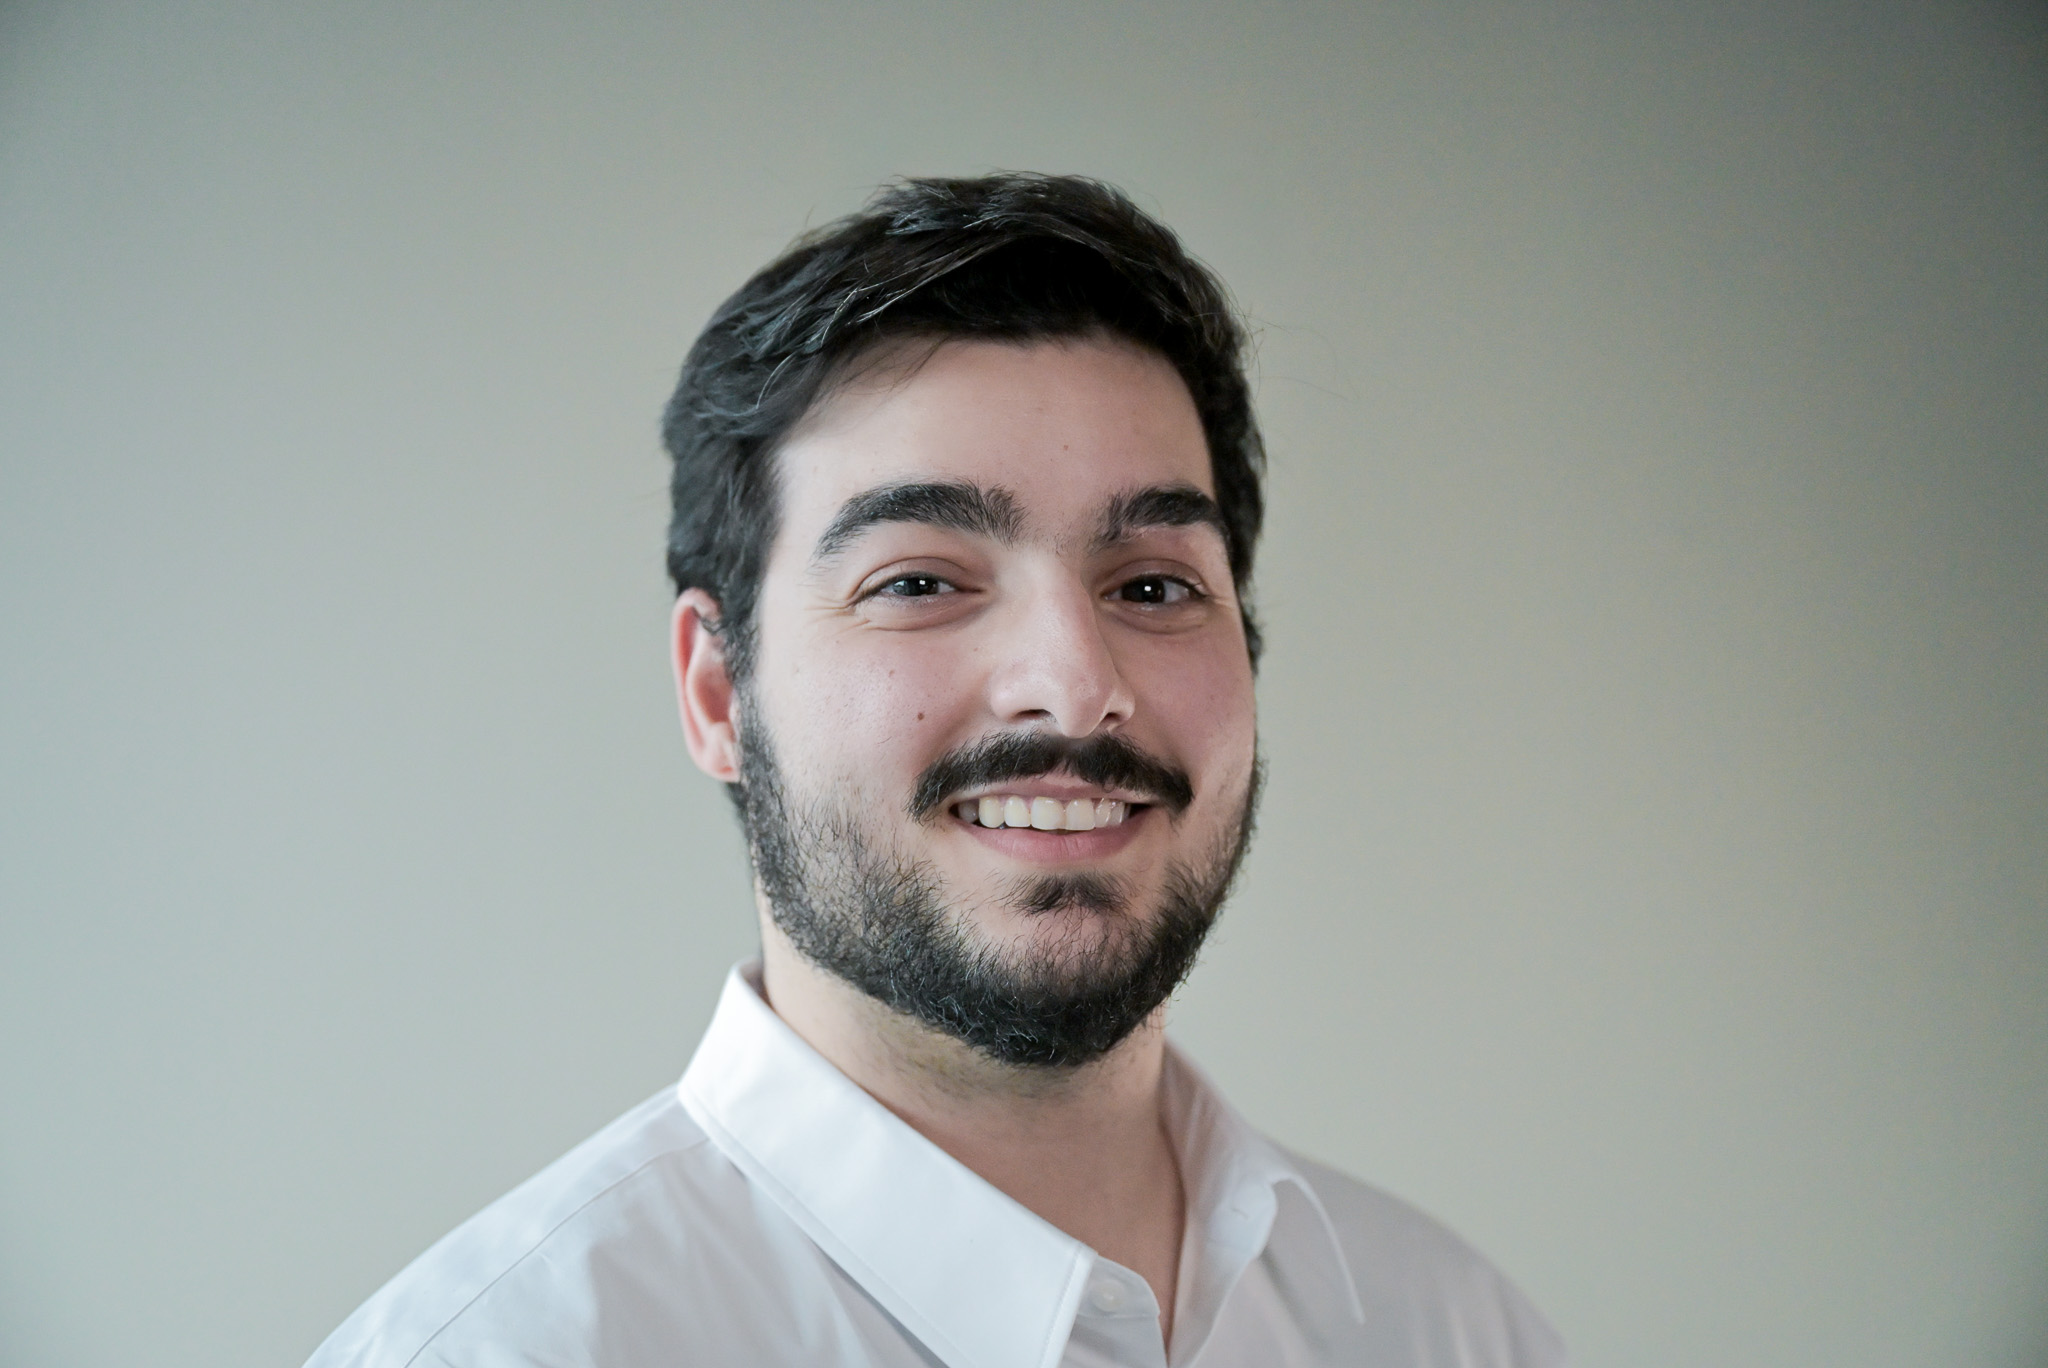
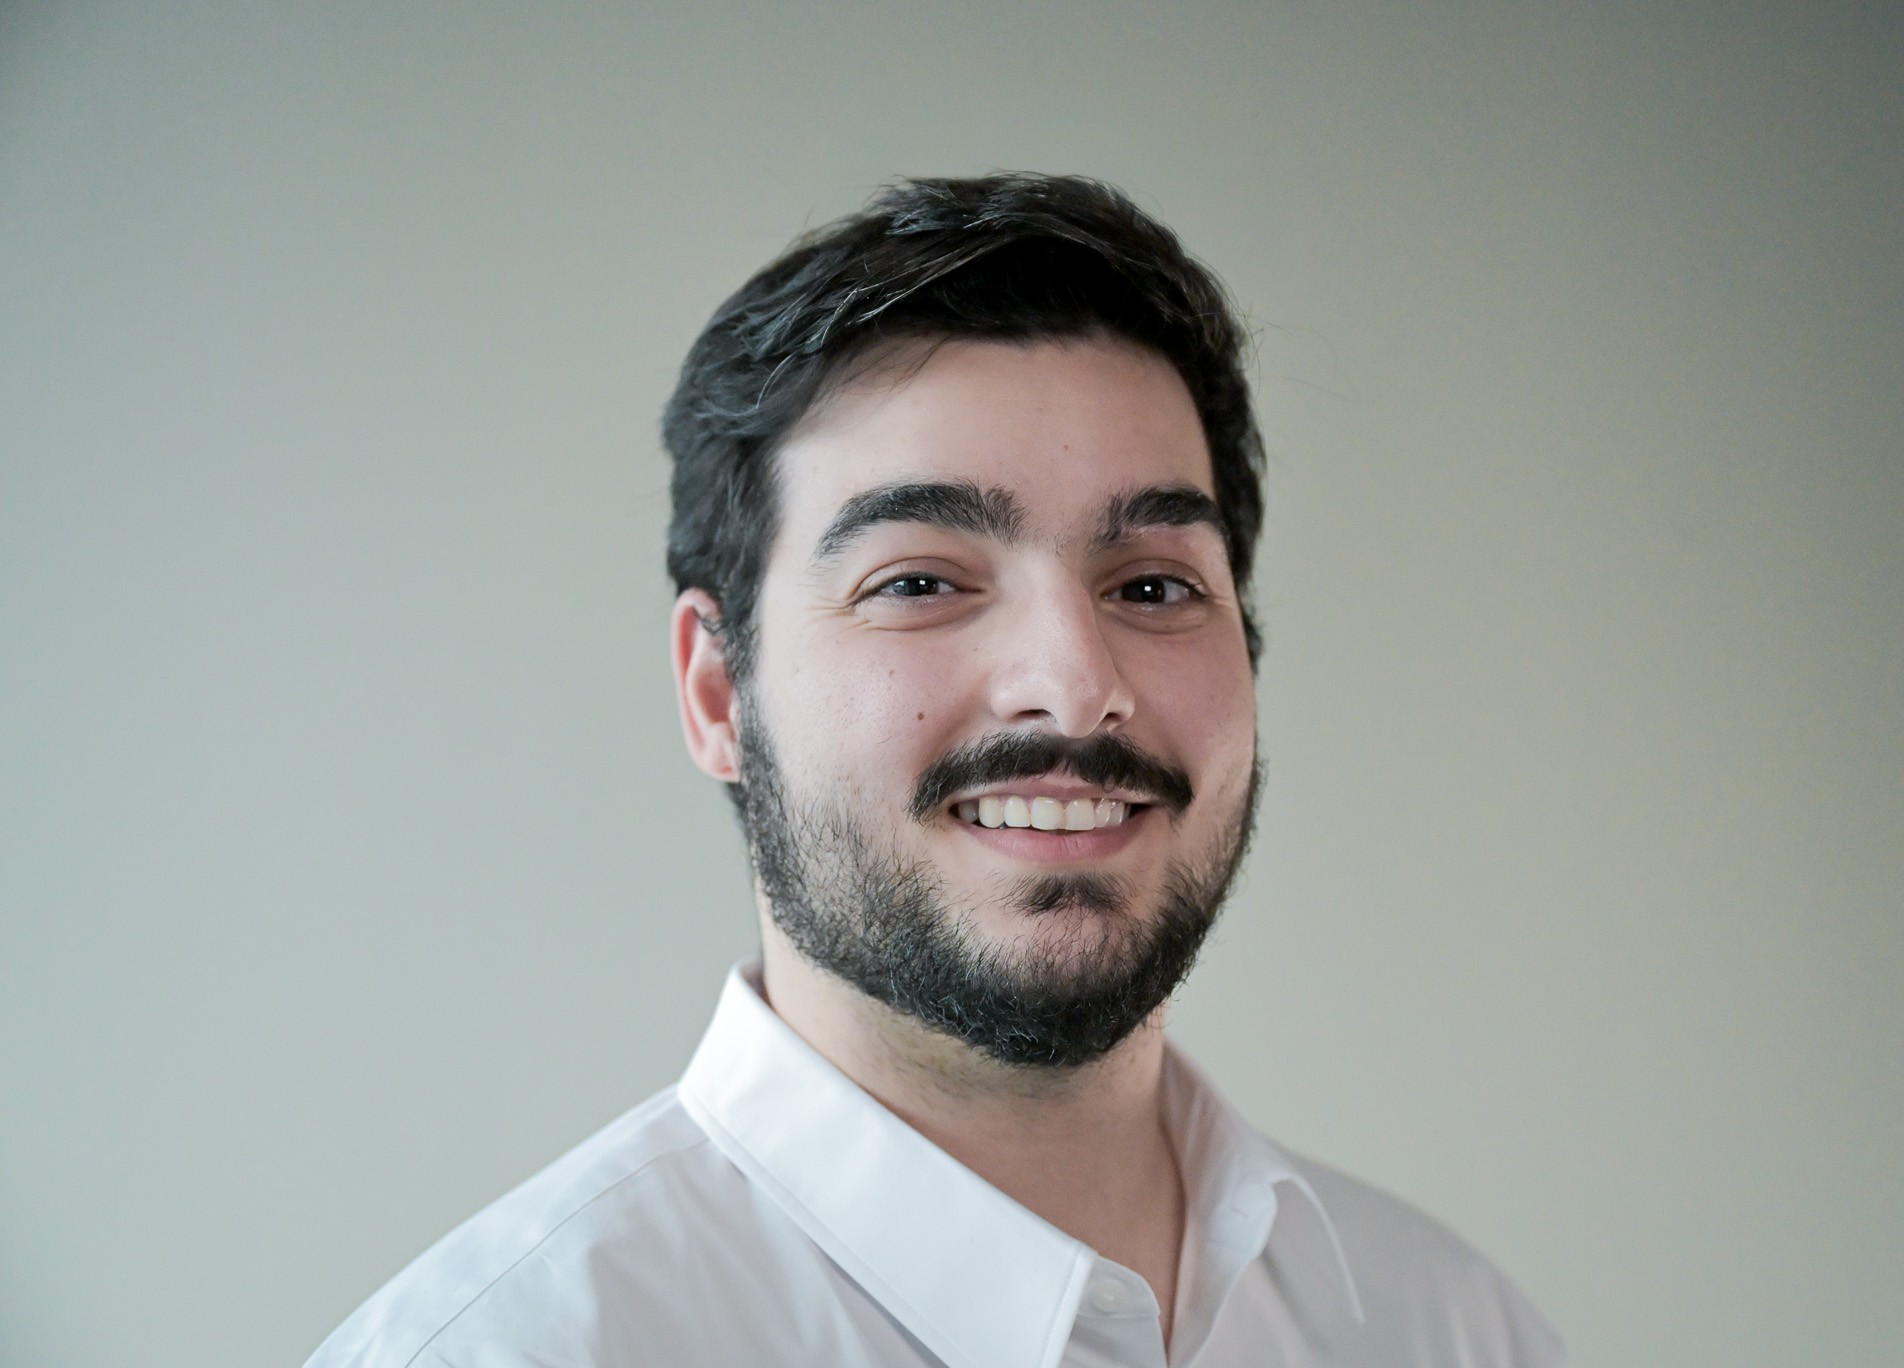
updating website

diff --git a/Alaa's Portfolio.html b/Alaa's Portfolio.html
@@ -25,21 +25,10 @@
 		<!-- Wrapper -->
 			<div id="wrapper">
 
-				<!-- Header -->
-					<header id="header" class="alt">
-						<a href="index.html" class="logo"><strong>Alaa Hatoum - Engineering Portfolio</strong> <span>Mechatronics Engineer | Robotics | Systems Integration</span></a>
-
-
-		
-						<nav>
-							<a href="#menu">Menu</a>
-						</nav>
-					</header>
-
 				<!-- Menu -->
 					<nav id="menu">
 						<ul class="links">
-							<li><a href="index.html">Home</a></li>
+							<li><a href="Alaa's Portfolio.html">Home</a></li>
 						</ul>
 						<ul class="actions stacked">
 							<li><a href="#" class="button primary fit">Get Started</a></li>
@@ -50,20 +39,34 @@
 					<section id="banner" class="major">
 						<div class="inner">
 							<header class="major banner-header">
-							<img src="images\profile-pic.jpg" alt="Alaa Hatoum" class="profile-pic" />
+							<img src="images/profile-pic1.jpg" alt="Alaa Hatoum" class="profile-pic" />
+
+							<div class="banner-text">
+								<h1>Alaa Hatoum</h1>
+								<p class="banner-subtitle">
+								Mechatronics | System Integration | Robotics Engineering
+								</p>
+							</div>
 							</header>
+
 							<div class="content">
 							  <p>
-    							I’m a mechatronics engineer with hands-on experience designing, building, and validating robotic systems across mechanical, electrical, and software boundaries.<br><br>
+    							I’m a mechatronics engineer with hands-on experience designing, building, and validating 
+								robotic systems across mechanical, electrical, and software boundaries.<br><br>
 
 								My background includes robotics hardware development, test fixtures, high-speed manufacturing systems, and autonomous platforms.<br><br>
 
 								I enjoy working close to real hardware—turning concepts into reliable, testable systems—and I’m especially interested in robotics, system integration, and physical AI.
 							</p>
-									<li><a href="#one" class="button next scrolly">Get Started</a></li>
+											<div style="text-align: center; margin-top: 1em;">
+											<a href="assets/Alaa_Hatoum___Resume.pdf" class="button primary" target="_blank">
+											View Resume
+											</a>
+											</div>
 								</ul>
 							</div>
 						</div>
+						<a href="#one" class="scroll-indicator"></a>
 					</section>
 
 				<!-- Main -->
@@ -137,12 +140,6 @@
 			I invite you to explore the projects throughout this site, and if you’re interested in collaborating,
 			discussing a role, or learning more about my work, I’d love to connect.
 		</p>
-
-		<div style="text-align: center; margin-top: 1em;">
-			<a href="assets/Alaa_Hatoum___Resume.pdf" class="button primary" target="_blank">
-				View Resume
-			</a>
-		</div>
 </section>
 
 

diff --git a/assets/css/main.css b/assets/css/main.css
@@ -3634,6 +3634,21 @@ input, select, textarea {
 					#banner > .inner header > :first-child:after {
 						max-width: 100%;
 					}
+			#banner .banner-text h1 {
+			margin: 0;
+			font-size: 3.2em;
+			font-weight: 600;
+			}
+
+			#banner .banner-subtitle {
+			margin-top: 0.3em;
+			font-size: 1.1em;
+			font-weight: 400;
+			letter-spacing: 0.08em;
+			text-transform: uppercase;
+			opacity: 0.85;
+			}
+
 
 			#banner > .inner .content {
 				display: -moz-flex;
@@ -3768,6 +3783,28 @@ input, select, textarea {
 				}
 
 		}
+
+		#banner .scroll-indicator {
+			position: absolute;
+			bottom: 2em;
+			left: 50%;
+			width: 22px;
+			height: 22px;
+			margin-left: -11px;
+			border-left: 2px solid white;
+			border-bottom: 2px solid white;
+			transform: rotate(-45deg);
+			opacity: 0.8;
+			animation: scrollPulse 2s infinite;
+			z-index: 3;
+			}
+
+			@keyframes scrollPulse {
+			0% { transform: translateY(0) rotate(-45deg); }
+			50% { transform: translateY(10px) rotate(-45deg); }
+			100% { transform: translateY(0) rotate(-45deg); }
+			}
+
 
 /* Main */
 
@@ -4116,3 +4153,5 @@ input, select, textarea {
 			opacity: 1;
 			visibility: visible;
 		}
+
+

diff --git a/landing.html b/landing.html
@@ -20,7 +20,7 @@
 				<!-- Header -->
 				<!-- Note: The "styleN" class below should match that of the banner element. -->
 					<header id="header" class="alt style2">
-						<a href="index.html" class="logo"><strong>Alaa Hatoum - Engineering Portfolio</strong> <span>Mechatronics Engineer | Robotics | Systems Integration</span></a>
+						<a href="Alaa's Portfolio.html" class="logo"><strong>Alaa Hatoum - Engineering Portfolio</strong> <span>Mechatronics Engineer | Robotics | Systems Integration</span></a>
 						<nav>
 							<a href="#menu">Menu</a>
 						</nav>
@@ -29,7 +29,7 @@
 				<!-- Menu -->
 					<nav id="menu">
 						<ul class="links">
-							<li><a href="index.html">Home</a></li>
+							<li><a href="Alaa's Portfolio.html">Home</a></li>
 						</ul>
 						<ul class="actions stacked">
 							<li><a href="#" class="button primary fit">Get Started</a></li>

diff --git a/WaveGen.html b/WaveGen.html
@@ -19,7 +19,7 @@
 					
 				<!-- Header -->
 					<header id="header">
-						<a href="index.html" class="logo"><strong>Alaa Hatoum - Engineering Portfolio</strong> <span>Mechatronics Engineer | Robotics | Systems Integration</span></a>
+						<a href="Alaa's Portfolio.html" class="logo"><strong>Alaa Hatoum - Engineering Portfolio</strong> <span>Mechatronics Engineer | Robotics | Systems Integration</span></a>
 						<nav>
 							<a href="#menu">Menu</a>
 						</nav>
@@ -28,7 +28,7 @@
 				<!-- Menu -->
 					<nav id="menu">
 						<ul class="links">
-							<li><a href="index.html">Home</a></li>
+							<li><a href="Alaa's Portfolio.html">Home</a></li>
 						</ul>
 						<ul class="actions stacked">
 							<li><a href="#" class="button primary fit">Get Started</a></li>

diff --git a/ded.html b/ded.html
@@ -19,7 +19,7 @@
 
 				<!-- Header -->
 					<header id="header">
-						<a href="index.html" class="logo"><strong>Alaa Hatoum - Engineering Portfolio</strong> <span>Mechatronics Engineer | Robotics | Systems Integration</span></a>
+						<a href="Alaa's Portfolio.html" class="logo"><strong>Alaa Hatoum - Engineering Portfolio</strong> <span>Mechatronics Engineer | Robotics | Systems Integration</span></a>
 						<nav>
 							<a href="#menu">Menu</a>
 						</nav>
@@ -28,7 +28,7 @@
 				<!-- Menu -->
 					<nav id="menu">
 						<ul class="links">
-							<li><a href="index.html">Home</a></li>
+							<li><a href="Alaa's Portfolio.html">Home</a></li>
 						</ul>
 						<ul class="actions stacked">
 							<li><a href="#" class="button primary fit">Get Started</a></li>

diff --git a/elements.html b/elements.html
@@ -19,7 +19,7 @@
 
 				<!-- Header -->
 					<header id="header">
-						<a href="index.html" class="logo"><strong>Forty</strong> <span>by HTML5 UP</span></a>
+						<a href="Alaa's Portfolio.html" class="logo"><strong>Forty</strong> <span>by HTML5 UP</span></a>
 						<nav>
 							<a href="#menu">Menu</a>
 						</nav>
@@ -28,7 +28,7 @@
 				<!-- Menu -->
 					<nav id="menu">
 						<ul class="links">
-							<li><a href="index.html">Home</a></li>
+							<li><a href="Alaa's Portfolio.html">Home</a></li>
 						</ul>
 						<ul class="actions stacked">
 							<li><a href="#" class="button primary fit">Get Started</a></li>

diff --git a/eeg.html b/eeg.html
@@ -19,7 +19,7 @@
 
 				<!-- Header -->
 					<header id="header">
-						<a href="index.html" class="logo"><strong>Alaa Hatoum - Engineering Portfolio</strong> <span>Mechatronics Engineer | Robotics | Systems Integration</span></a>
+						<a href="Alaa's Portfolio.html" class="logo"><strong>Alaa Hatoum - Engineering Portfolio</strong> <span>Mechatronics Engineer | Robotics | Systems Integration</span></a>
 						<nav>
 							<a href="#menu">Menu</a>
 						</nav>

diff --git a/Echohand.html b/Echohand.html
@@ -28,7 +28,7 @@
 				<!-- Menu -->
 					<nav id="menu">
 						<ul class="links">
-							<li><a href="index.html">Home</a></li>
+							<li><a href="Alaa's Portfolio.html">Home</a></li>
 						</ul>
 						<ul class="actions stacked">
 							<li><a href="#" class="button primary fit">Get Started</a></li>
